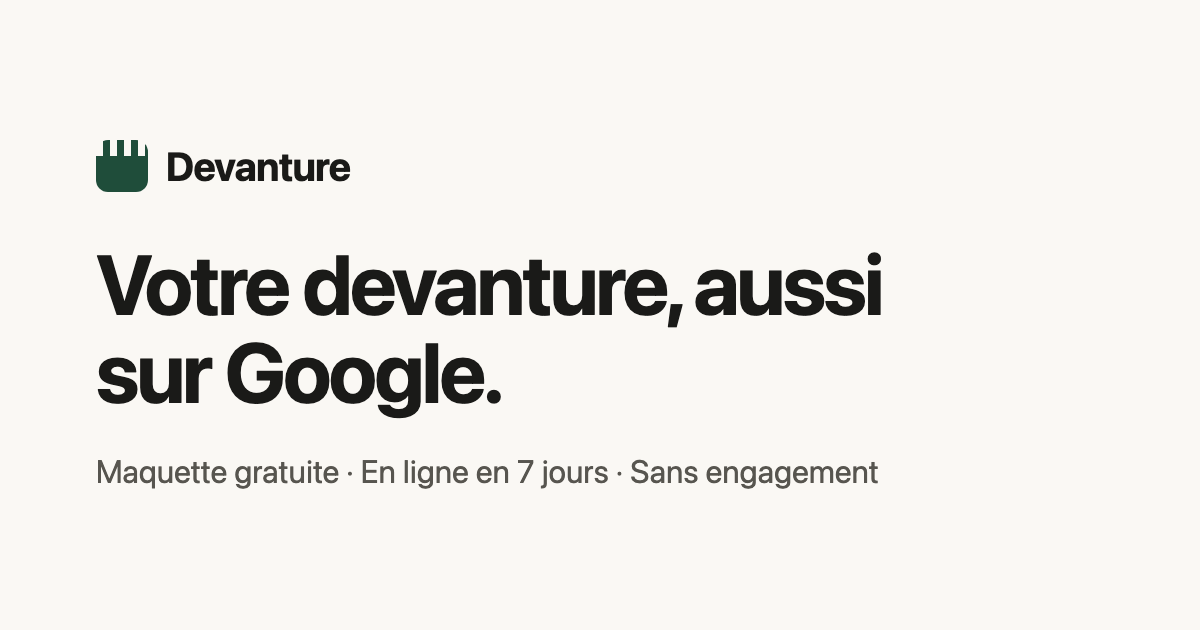
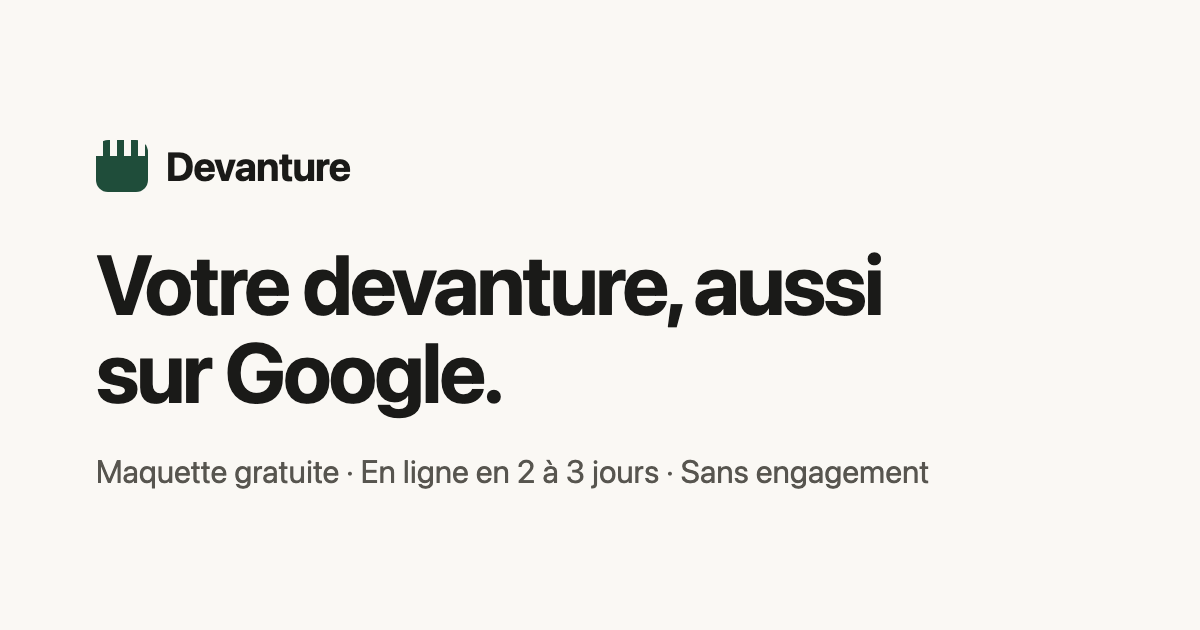
Île-de-France entière, coordonnées réelles, prix sur appel, mise en ligne en 2 à 3 jours

Changed region(s): [[0.4317, 0.7238, 0.7708, 0.7841]]

diff --git a/src/data/site.ts b/src/data/site.ts
@@ -8,21 +8,18 @@ export const site = {
   nom: 'Devanture',
   promesse: 'Votre devanture, aussi sur Google.',
   description:
-    'Devanture crée le site web des commerces indépendants à Puteaux, La Défense, Paris 8e et Paris 16e. Maquette gratuite, site en ligne en 7 jours, sans engagement.',
+    'Devanture crée le site web des commerces indépendants à Paris et dans toute l’Île-de-France. Maquette gratuite, site en ligne en 2 à 3 jours, sans engagement.',
 
   // Contact — téléphone au format affiché ET au format lien (sans espaces, avec +33).
-  telephone: '[TÉLÉPHONE]', // ex. « 06 12 34 56 78 »
-  telephoneLien: '[TÉLÉPHONE]', // ex. « +33612345678 »
-  email: '[EMAIL]',
+  telephone: '07 69 75 14 79',
+  telephoneLien: '+33769751479',
+  email: 'devanture.paris@gmail.com',
 
-  zones: ['Puteaux', 'La Défense', 'Paris 8e', 'Paris 16e'],
-  delaiJours: 7,
+  region: 'Paris et toute l’Île-de-France',
+  zones: ['Paris', 'Hauts-de-Seine', 'Seine-Saint-Denis', 'Val-de-Marne', 'Yvelines', 'Essonne', 'Seine-et-Marne', 'Val-d’Oise'],
+  delai: '2 à 3 jours',
 
-  prix: {
-    mensuel: '[PRIX]', // ex. « 59 » → affiché « 59 € / mois »
-    unique: '[PRIX]', // ex. « 990 » → affiché « 990 € »
-    hebergementUnique: '[PRIX]', // hébergement + domaine par an pour l'achat unique
-  },
+  // Pas de prix affiché : il dépend de la demande, le client appelle pour le connaître.
 
   // Adresse d'envoi du formulaire (Formspree : créez un formulaire et collez son identifiant).
   formulaireAdresse: 'https://formspree.io/f/[ID_FORMSPREE]',
@@ -71,7 +68,7 @@ export const etapes = [
   },
   {
     titre: 'Votre site est en ligne',
-    texte: 'Sept jours plus tard, vos clients vous trouvent sur Google et vous appellent en un geste.',
+    texte: '2 à 3 jours plus tard, vos clients vous trouvent sur Google et vous appellent en un geste.',
   },
 ];
 

diff --git a/src/scripts/formulaire.ts b/src/scripts/formulaire.ts
@@ -9,7 +9,7 @@ const chiffres = (v: string) => v.replace(/[\s.\-()]/g, '');
 const regles: Record<string, Regle> = {
   commerce: (v) => (v.trim().length < 2 ? 'Indiquez le nom de votre commerce.' : ''),
   metier: (v) => (!v ? 'Choisissez votre métier.' : ''),
-  quartier: (v) => (!v ? 'Choisissez votre quartier.' : ''),
+  quartier: (v) => (v.trim().length < 2 ? 'Indiquez votre ville ou votre arrondissement.' : ''),
   telephone: (v) => {
     if (!v.trim()) return 'Indiquez un numéro pour que l’on puisse vous rappeler.';
     return /^(?:\+33|0033|0)[1-9]\d{8}$/.test(chiffres(v))

diff --git a/README.md b/README.md
@@ -1,7 +1,7 @@
 # Devanture
 
-Site vitrine de Devanture : des sites web pour les commerces indépendants (Puteaux, La Défense,
-Paris 8e et 16e). Promesse : « Votre devanture, aussi sur Google. »
+Site vitrine de Devanture : des sites web pour les commerces indépendants, à Paris et dans toute
+l’Île-de-France. Promesse : « Votre devanture, aussi sur Google. »
 
 Une seule page longue, plus `/mentions-legales` et `/confidentialite`. Site statique construit avec
 [Astro](https://astro.build), animations avec [Motion](https://motion.dev). Hébergement sur Vercel.
@@ -12,7 +12,7 @@ Une seule page longue, plus `/mentions-legales` et `/confidentialite`. Site stat
 
 | Vous voulez changer… | Où |
 |---|---|
-| Prix, téléphone, e-mail, zones, délai | `src/data/site.ts`, en haut (`site`) |
+| Téléphone, e-mail, zones, délai de mise en ligne | `src/data/site.ts`, en haut (`site`) |
 | Mentions légales (nom, SIRET, adresse, statut) | `src/data/site.ts` → `site.editeur` |
 | Étapes, « Ce qui est inclus », questions fréquentes | `src/data/site.ts` → `etapes`, `inclus`, `faq` |
 | Liste des métiers du formulaire | `src/data/site.ts` → `metiers` |
@@ -26,17 +26,15 @@ Une seule page longue, plus `/mentions-legales` et `/confidentialite`. Site stat
 
 Cherchez `[` dans le projet : chaque valeur entre crochets est à remplir.
 
-- `[PRIX]` ×3 : abonnement mensuel, achat unique, hébergement annuel de l'achat unique
-- `[TÉLÉPHONE]` ×2 : affiché (`06 12 34 56 78`) et pour le lien d'appel (`+33612345678`)
-- `[EMAIL]`
 - `[NOM PRÉNOM]`, `[STATUT JURIDIQUE]`, `[SIRET]`, `[ADRESSE]`
 - `[DURÉE]` : durée de conservation des demandes (ex. « 3 ans après notre dernier échange »)
 - `[ID_FORMSPREE]` : voir « Formulaire » ci-dessous
 - `[DOMAINE]` dans `astro.config.mjs`
 - `[DATE]` et la mention de TVA dans les deux pages légales
 
+Aucun prix n'est affiché : les cartes de tarifs invitent à appeler pour connaître le prix.
 Tant qu'une valeur n'est pas remplie, elle n'est **pas** envoyée à Google dans les données
-structurées (pas de faux numéro ni de faux prix publiés).
+structurées.
 
 ### Formulaire
 
